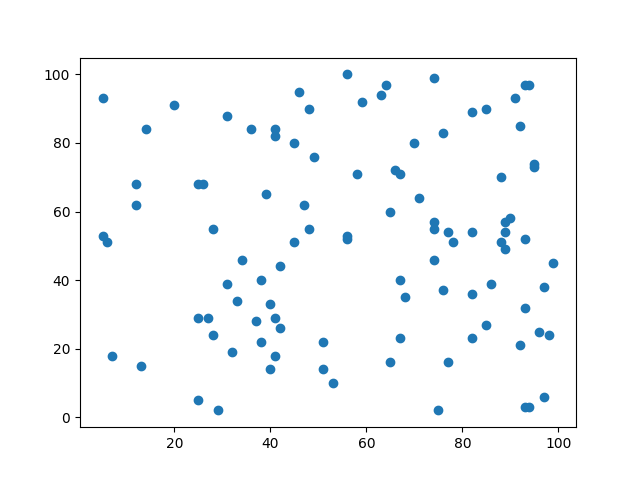
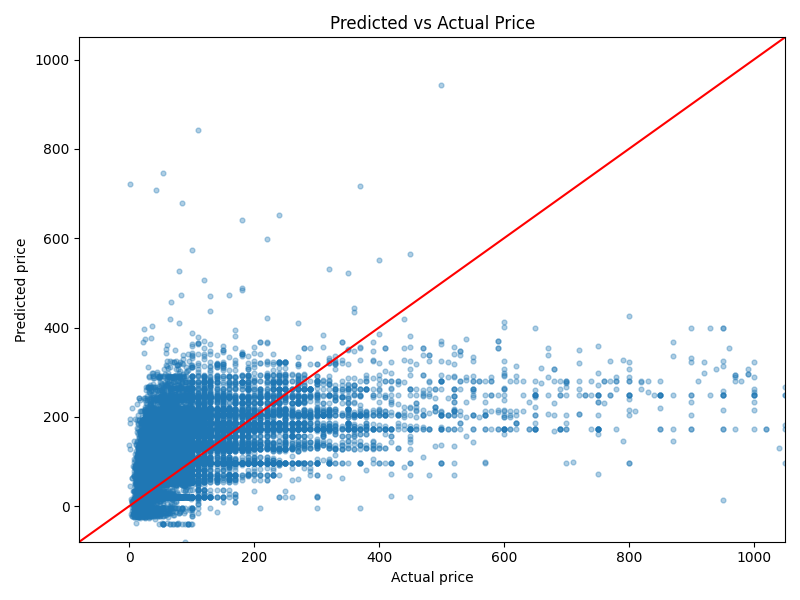
add plot functions, implement analyzing class, train model, save results
vibecoded plot class. fixed mathematical errors on algorithm.py, added analyzing class. next: use val_data, try more epochs, try convergence model, analyze model overall

diff --git a/Linear_Algebra/house_pricing/src/plot.py b/Linear_Algebra/house_pricing/src/plot.py
@@ -1,24 +1,107 @@
 import matplotlib.pyplot as plt
 import os
-from random import randint
 
-def plot(X : list[int], Y : list[int]):
+class Plot():
+    def _data_path(self, filename):
+        projectPath = os.path.dirname(os.path.dirname(__file__))
+        return os.path.join(projectPath, "data", filename)
 
-    plt.scatter(X,Y)
-    plt.show()
+    def plot_graph(self, plotData):
+        actual = plotData["actual_price"]
+        predicted = plotData["predicted_price"]
 
-def createRandomPoints(n : int) -> int:
-    xCoordList : list[int] = [] 
-    yCoordList : list[int] = []
+        plt.figure(figsize=(8, 6))
+        plt.scatter(actual, predicted, alpha=0.35, s=12)
 
-    for i in range(n):
-        xCoordList.append(randint(1,100))
-        yCoordList.append(randint(1,100))
-    return xCoordList, yCoordList
+        min_price = min(actual.min(), predicted.min())
+        max_price = max(actual.quantile(0.99), predicted.quantile(0.99))
+        plt.plot([min_price, max_price], [min_price, max_price], color="red")
+        plt.xlim(min_price, max_price)
+        plt.ylim(min_price, max_price)
+        
+        plt.xlabel("Actual price")
+        plt.ylabel("Predicted price")
+        plt.title("Predicted vs Actual Price")
+        plt.tight_layout()
+      
+        plt.savefig(self._data_path("plot.png"))
+        plt.close()
+
+    def plot_residuals(self, plotData):
+        predicted = plotData["predicted_price"]
+        residual = plotData["residual"]
+
+        plt.figure(figsize=(8, 6))
+        plt.scatter(predicted, residual, alpha=0.35, s=12)
+        plt.axhline(0, color="red")
+
+        x_min = predicted.min()
+        x_max = predicted.quantile(0.99)
+        residual_limit = max(abs(residual.quantile(0.01)), abs(residual.quantile(0.99)))
+        plt.xlim(x_min, x_max)
+        plt.ylim(-residual_limit, residual_limit)
+
+        plt.xlabel("Predicted price")
+        plt.ylabel("Residual")
+        plt.title("Residuals vs Predicted Price")
+        plt.tight_layout()
+
+        plt.savefig(self._data_path("residuals.png"))
+        plt.close()
+
+    def plot_error_distribution(self, plotData):
+        residual = plotData["residual"]
+        lower = residual.quantile(0.01)
+        upper = residual.quantile(0.99)
+        focused_residual = residual[(residual >= lower) & (residual <= upper)]
+
+        plt.figure(figsize=(8, 6))
+        plt.hist(focused_residual, bins=40)
+        plt.axvline(0, color="red")
+
+        plt.xlabel("Prediction error")
+        plt.ylabel("Count")
+        plt.title("Prediction Error Distribution")
+        plt.tight_layout()
+
+        plt.savefig(self._data_path("error_distribution.png"))
+        plt.close()
+
+    def plot_absolute_error_distribution(self, plotData):
+        absolute_error = plotData["absolute_error"]
+        upper = absolute_error.quantile(0.99)
+        focused_absolute_error = absolute_error[absolute_error <= upper]
+
+        plt.figure(figsize=(8, 6))
+        plt.hist(focused_absolute_error, bins=40)
+
+        plt.xlabel("Absolute error")
+        plt.ylabel("Count")
+        plt.title("Absolute Error Distribution")
+        plt.tight_layout()
+
+        plt.savefig(self._data_path("absolute_error_distribution.png"))
+        plt.close()
+
+    def plot_metrics_table(self, metricsData):
+        fig, ax = plt.subplots(figsize=(8, 2))
+        ax.axis("off")
+
+        table = ax.table(
+            cellText=metricsData.round(4).values,
+            colLabels=metricsData.columns,
+            loc="center"
+        )
+
+        table.auto_set_font_size(False)
+        table.set_fontsize(10)
+        table.scale(1, 1.5)
+
+        plt.tight_layout()
+        plt.savefig(self._data_path("metrics_table.png"))
+        plt.close()
 
 def main():
-    x, y = createRandomPoints(100)
-    print(len(x))
     
     plot(x,y)
 
@@ -28,4 +111,3 @@ def main():
 
 if __name__ == "__main__":
     main()
-

diff --git a/Linear_Algebra/house_pricing/model.py b/Linear_Algebra/house_pricing/model.py
@@ -3,40 +3,74 @@ import kagglehub
 import os
 from src.dataset import Dataset
 from src.algorithm import Model
+from src.analytics import Analytics
+from src.plot import Plot
 
 class OnlineTrainingPipeline():
     def __init__(self):
         path = kagglehub.dataset_download("anmolkumar/house-price-prediction-challenge")
         datasetPath = os.path.join(path, 'train.csv')
         self.dataset = Dataset(datasetPath)
+        self.model = Model()
         
     def setup(self):
-        pass
+        self.dataset.computeMeanAndStd()
+        
+        y_mean = self.dataset.get_y_mean()
+        n = self.dataset.get_sample_size()
+
+        self.model.set_bias(y_mean)
+        self.model.set_sample_size(n)
+    
+    def get_train_data(self):
+        X, Y = zip(*self.dataset.getData())
+        X = np.array(X)
+        Y = np.array(Y).reshape(-1, 1)
+        return X, Y
+
+    def epochs_train(self, n : int):
+        X, Y = self.get_train_data()
+        self.model.epochs_train(X, Y, n)
+        
+    def convergence_train(self, threshold : float):
+        X, Y = self.get_train_data()
+        self.model.convergence_train(X, Y, threshold)
+
+    def get_model_object(self):
+        return self.model
 
 def main():
-    model = Model()
-
-    dataPL = OnlineTrainingPipeline()
-    dataPL.dataset.computeMeanAndStd()
-
-    y_mean = dataPL.dataset.get_y_mean()
-    sampleSize = dataPL.dataset.get_sample_size()
-
-    model.set_bias(y_mean)
-    model.set_sample_size(sampleSize) 
-
-    X = np.array([x for x, y in dataPL.dataset.getData()]) 
-
-    Y = np.array([[y] for x, y in dataPL.dataset.getData()]) 
-
-    #wGrad, bGrad = model.compute_gradients(X, Y)
-
-    testEpochs : int = 100
-    model.epochs_train(X, Y, testEpochs)
     
-#   compError = model.compute_error(X[0], Y[0])
-  #  print(compError)
+    # Using batch gradient descent
 
+
+    # Model A: trained with fixed epochs
+    epoch_model_agent = OnlineTrainingPipeline()
+    epoch_model_agent.setup()
+
+    epochs = 100
+    epoch_model_agent.epochs_train(epochs)
+
+     
+    # Model B: trained until convergence
+    convergence_model_agent = OnlineTrainingPipeline()
+    convergence_model_agent.setup()
+    
+    threshold = 0.001
+    convergence_model_agent.convergence_train(threshold)
+
+    X, Y = epoch_model_agent.get_train_data()
+    analytics = Analytics(epoch_model_agent.get_model_object())
+
+    graph_data = (analytics.prediction_data("Epoch 100", "TRAIN", X, Y))
+
+    table_data = analytics.analytic_metric_data("Epoch 100", "TRAIN", X, Y)
+
+    plot = Plot()
+    plot.plot_graph(graph_data)
+    plot.plot_residuals(graph_data)
+    plot.plot_error_distribution(graph_data)
+    plot.plot_metrics_table(table_data)
 
 # data representation:
 ## POSTED_BY:ownername

diff --git a/Linear_Algebra/house_pricing/src/algorithm.py b/Linear_Algebra/house_pricing/src/algorithm.py
@@ -29,21 +29,12 @@ class Model():
 
     #TODO: let this func handle loop, or the training func()
     def mean_squared_error(self, x : list[float], y : float):
-        prev_mse = self.prev_mse 
-        sum = 0
-
-        for dataPoint in X:
-            X = np.array([el for el in dataPoint])
-            Xw = np.dot(X, self.w)
-            term = Xw + self.b
-            sum += term
-
-        self.prev_mse = sum  
-        return prev_mse, sum
+        e = self.y_predict(x) - y
+        return np.mean(e ** 2)
     
     # Calculates y_pred with current f(x) = Xw + b
     def y_predict(self, x : list[float]) -> float:
-        y_pred = np.matmul(x, self.w)
+        y_pred = np.matmul(x, self.w) + self.b
         return y_pred
 
     # Calculates error from y_pred - y_val
@@ -58,8 +49,9 @@ class Model():
         e = self.compute_error(x, y)
 
         xT = x.T 
-        weightGradients = (2 / self.n) * np.dot(xT, e)
-        biasGradient = (2 / self.n) * np.sum(e)
+        n = x.shape[0]
+        weightGradients = (2 / n) * np.dot(xT, e)
+        biasGradient = (2 / n) * np.sum(e)
         return weightGradients, biasGradient
     
     # Updates the models parameter
@@ -71,18 +63,21 @@ class Model():
     # set manual amount of iterations/loops
     def epochs_train(self, x : list[float], y : list[float], n : int):
         for epoch in range(1, n + 1):
-            print("loop:" + str(epoch))
             self.update_parameters(x, y)
 
     # loop til residual difference hits threshold
-    def convergence_train(self, x : list[float], y : list[float], bound : float):
+    def convergence_train(self, x : list[float], y : list[float], bound : float, max_epochs=10000):
+        prev_mse = float("inf")
 
-        for i in range(x.size):
-            prev_msn, cur_msn = self.mean_squared_error(x[i], y[i])
-            if abs(prev_msn - cur_msn) < bound:
-                break
+        for epoch in range(1, max_epochs + 1):
             self.update_parameters(x, y)
-            print("loop:" + i + 1)
+
+            cur_mse = self.mean_squared_error(x, y)
+            
+            if abs(prev_mse - cur_mse) < bound:
+                break
+
+            prev_mse = cur_mse
 
 def main():
     m = Model()

diff --git a/Linear_Algebra/house_pricing/src/analytics.py b/Linear_Algebra/house_pricing/src/analytics.py
@@ -1,0 +1,45 @@
+import pandas as pd
+import numpy as np 
+
+class Analytics():
+    def __init__(self, model):
+        self.model = model
+   
+    # for graph plotting
+    def prediction_data(self, name : str, split : str, x : list[float], y : float):
+        y_pred = self.model.y_predict(x)
+        residuals = y_pred - y
+
+        return pd.DataFrame({
+            "model": name,
+            "split": split,
+            "actual_price": y.flatten(),
+            "predicted_price": y_pred.flatten(),
+            "residual": residuals.flatten(),
+            "squared_error": (residuals ** 2).flatten(),
+            "absolute_error": np.abs(residuals).flatten(),
+        })
+    
+    # for table plot
+    def analytic_metric_data(self, name : str, split : str, x : list[float], y : float):
+        y_pred = self.model.y_predict(x)
+        residuals = y_pred - y
+
+        mse = np.mean(residuals ** 2)
+        rmse = np.sqrt(mse)
+        mae = np.mean(np.abs(residuals))
+
+        ss_res = np.sum(residuals ** 2)
+        ss_tot = np.sum((y - np.mean(y)) ** 2)
+        r2 = 1 - (ss_res / ss_tot)
+
+        return pd.DataFrame([
+            {
+                "model": name,
+                "split": split,
+                "MSE": mse,
+                "RMSE": rmse,
+                "MAE": mae,
+                "R2": r2,
+            }
+        ])

diff --git a/Linear_Algebra/house_pricing/src/__init__.py b/Linear_Algebra/house_pricing/src/__init__.py
@@ -2,3 +2,4 @@
 from .algorithm import *
 from .dataset import *
 from .plot import *
+from .analytics import *
